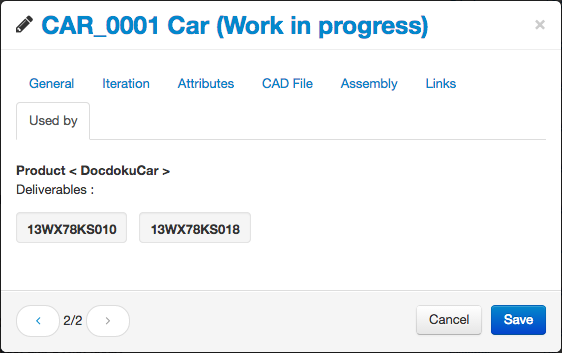
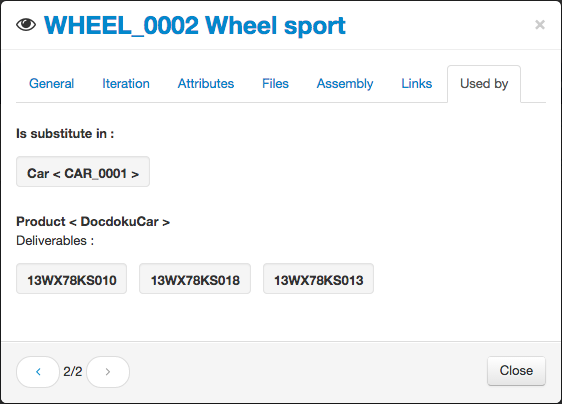
part used by assembly as substitute/component

diff --git a/app/_i18n/fr/Documentation_dev.md b/app/_i18n/fr/Documentation_dev.md
@@ -413,7 +413,10 @@ Note : le seul moyen de vider la liste des notifications est de créer une nouve
 
 ###Cas d'emploi
 
-Cette vue liste tous les produits et exemplaires qui utilisent l'article en tant que composant (tête, noeud ou feuille). 
+Cette vue liste :
+
+* les assemblages qui utilisent l'article en tant que sous-composant (composant ou variante)
+* les produits et exemplaires qui utilisent l'article en tant que sous-composant (tête, noeud ou feuille)
 
 {% image /assets/images/documentation/dev/fr/image69.png "Vue Cas d'emploi"%}
 

diff --git a/app/_i18n/en/Documentation_dev.md b/app/_i18n/en/Documentation_dev.md
@@ -383,7 +383,10 @@ Note: the only way to clear the list is creating a new iteration of the assembly
 
 ###Used by
 
-This view lists the products and deliverables using the part as a sub-component (root part, node or leaf).
+This view lists:
+
+* the assembly using the part as a sub-component (component or substitute)
+* the products and deliverables using the part as a sub-component (root part, node or leaf)
 
 {% image /assets/images/documentation/dev/en/image69.png "Used by view"%}
 
